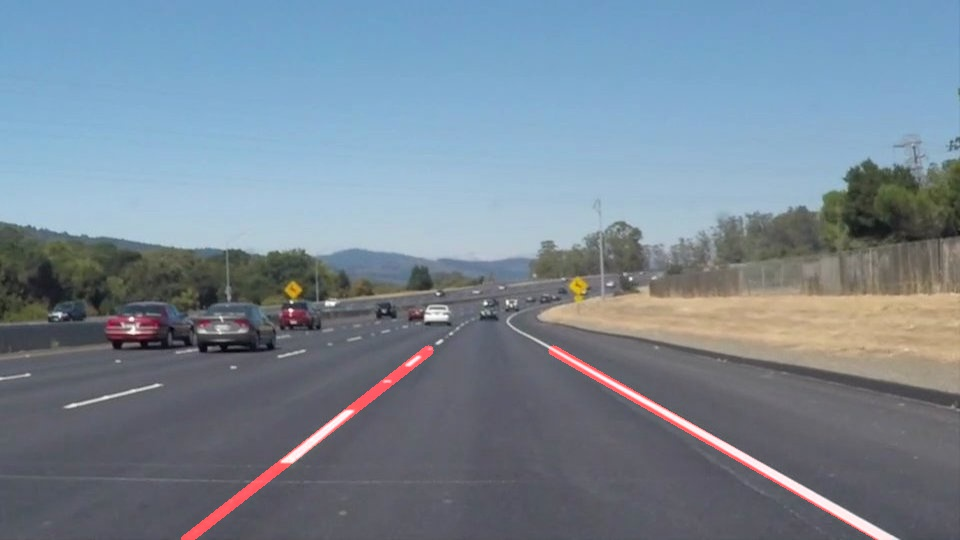
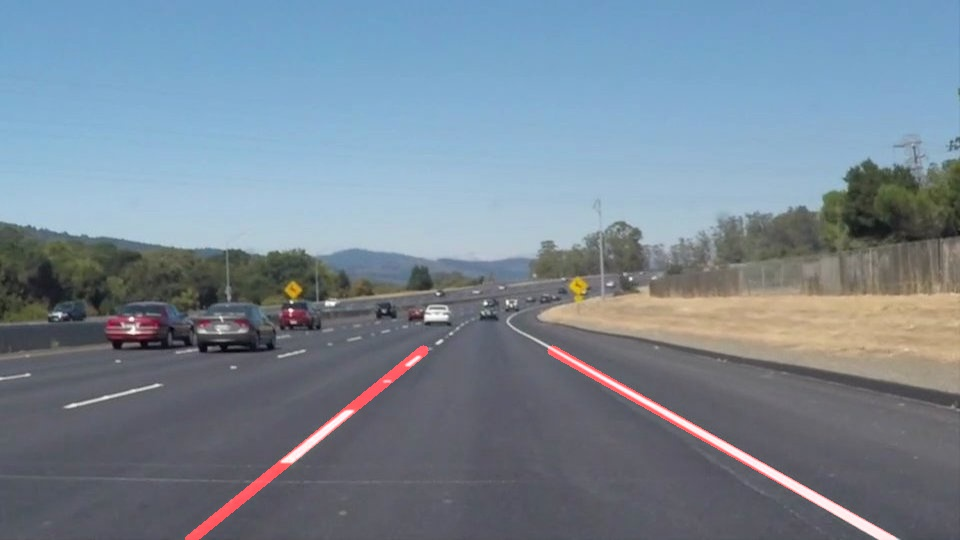
Color Filter completed

diff --git a/Lane_detect_images.py b/Lane_detect_images.py
@@ -112,7 +112,7 @@ def hough_lines(img, rho, theta, threshold, min_line_len, max_line_gap):
 #    comb_img = cv2.addWeighted(image, 0.8, line_img, 1,0.5)
 #    plt.figure()        
 #    plt.imshow(comb_img)
-#   draw_lines(line_img, lines)
+
     return lines
 
 def weighted_img(img, initial_img, α=0.8, β=1., λ=0.):
@@ -200,7 +200,8 @@ for file in os.listdir(imagesFolder):
         gray = cv2.cvtColor(image,cv2.COLOR_RGB2GRAY)
             
         """ Define a kernel size and apply Gaussian smoothing"""
-        blur_gray = gaussianBlur(gray,kernel_size=5)
+#        blur_gray = gaussianBlur(gray,kernel_size=5)
+        blur_gray = gaussianBlur(imageFiltered,kernel_size=5)
         
         # Define our parameters for Canny and apply
         low_threshold = 50
